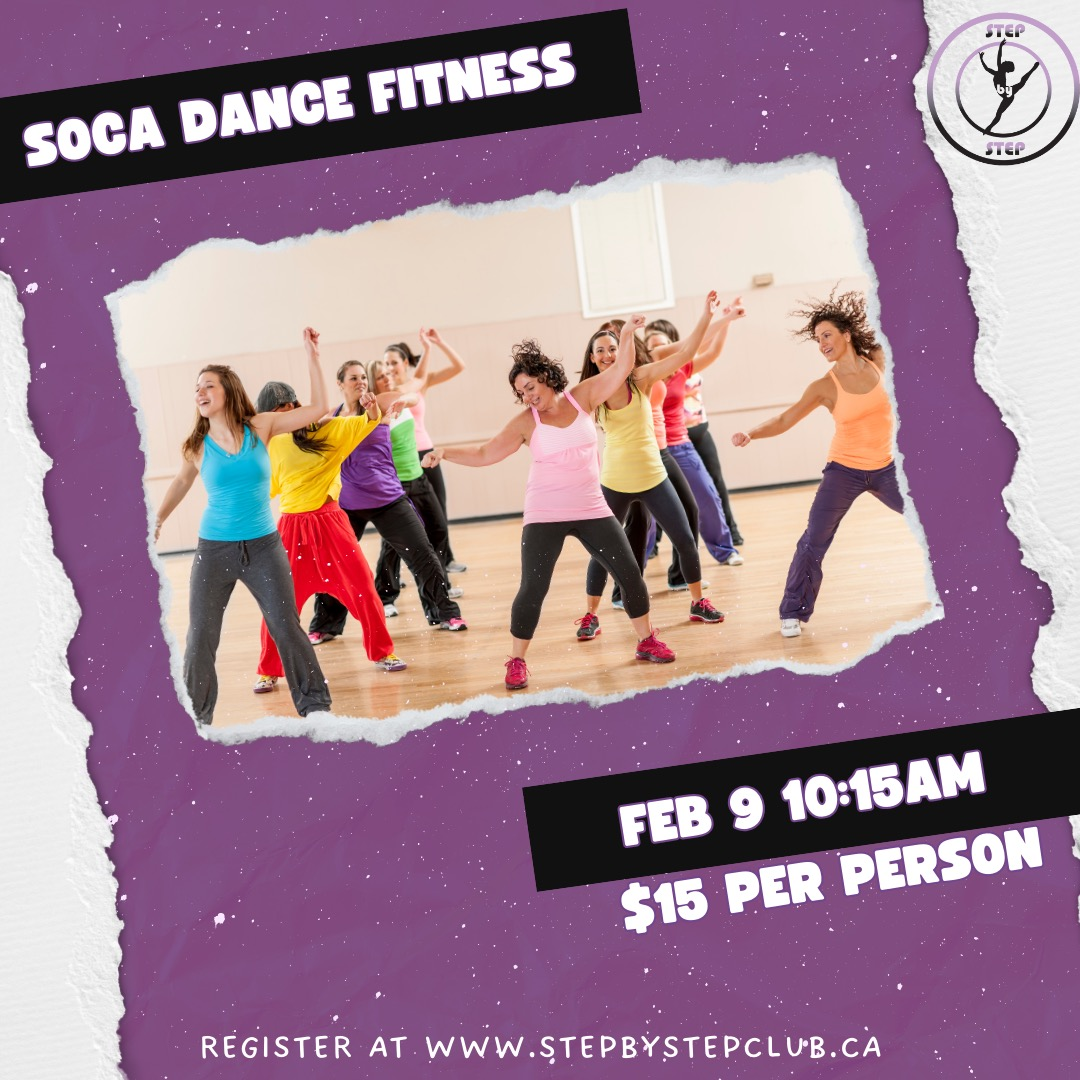
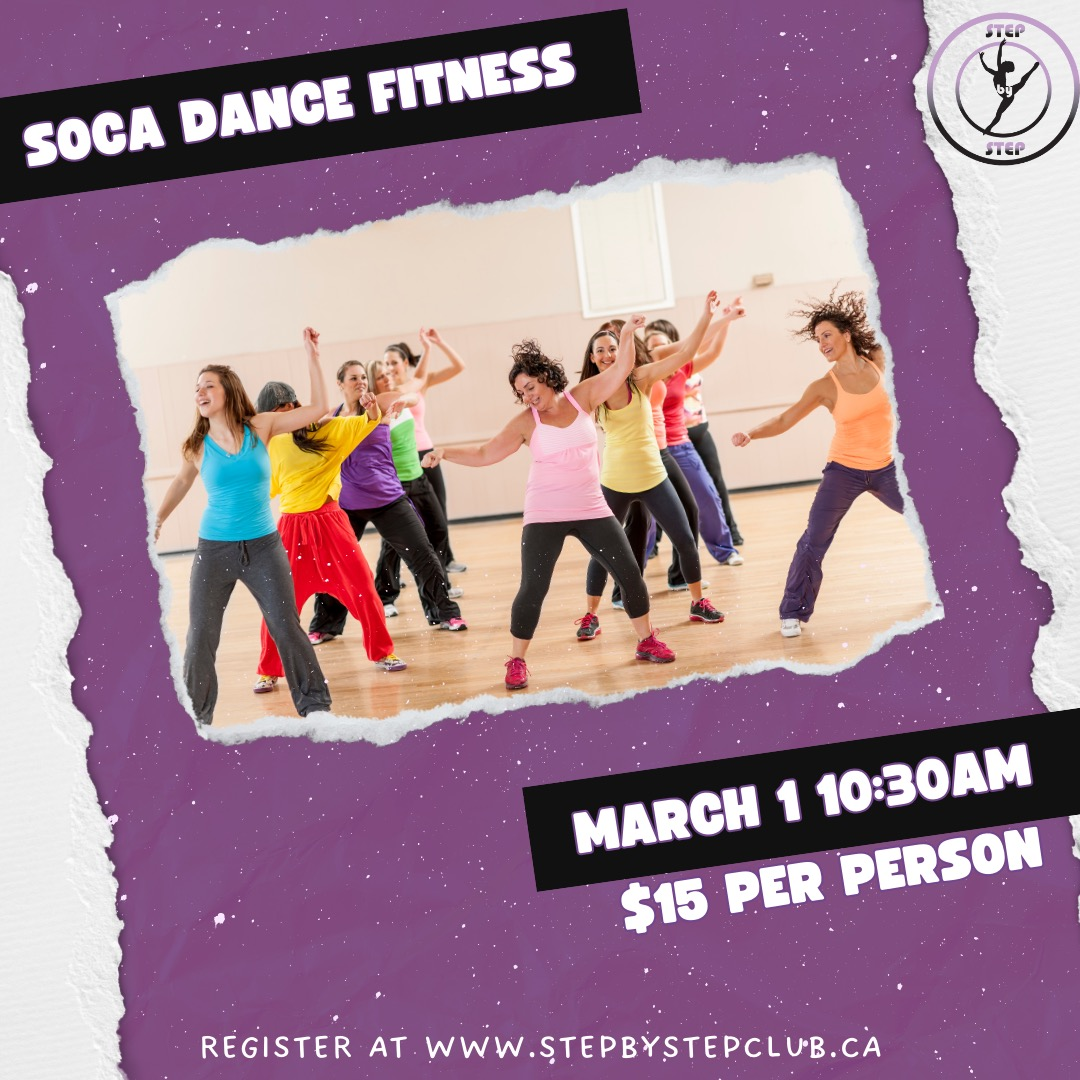
update special events image and link

Changed region(s): [[0.5194, 0.6722, 0.9778, 0.7944]]

diff --git a/client/src/components/SpecialEvents/SpecialEvents.js b/client/src/components/SpecialEvents/SpecialEvents.js
@@ -1,17 +1,10 @@
 import "./SpecialEvents.scss";
 import BackButton from "../BackButton/BackButton";
-import specialEvent2 from "../../assets/images/soca.jpeg";
-import specialEvent3 from "../../assets/images/blackhistory.JPG";
-import specialEvents from "../../assets/images/popclass.JPEG";
+import specialEvents from "../../assets/images/soca.jpeg";
+import specialEvent2 from "../../assets/images/blackhistory.JPG";
 
 const SpecialEvents = () => {
   const linkToBuyTickets = () => {
-    window.open(
-      "https://www.wellnessliving.com/rs/event/step_by_step_club?k_class=764015&k_class_tab=66373",
-      "_blank"
-    );
-  };
-  const linkToBuyTickets3 = () => {
     window.open(
       "https://www.wellnessliving.com/rs/event/step_by_step_club?k_class=763527&k_class_tab=66373",
       "_blank"
@@ -20,7 +13,7 @@ const SpecialEvents = () => {
 
   const linkToBuyTickets2 = () => {
     window.open(
-      "https://www.wellnessliving.com/rs/event/step_by_step_club?k_class=765922&k_class_tab=66373",
+      "https://www.wellnessliving.com/rs/event/step_by_step_club?k_class=764015&k_class_tab=66373",
       "_blank"
     );
   };
@@ -44,16 +37,6 @@ const SpecialEvents = () => {
           className="special-events__image"
         />
         <button className="special-events__button" onClick={linkToBuyTickets}>
-          Click Here To Buy Tickets!
-        </button>
-      </div>
-      <div className="special-events__image-container">
-        <img
-          src={specialEvent3}
-          alt="Special Event"
-          className="special-events__image"
-        />
-        <button className="special-events__button" onClick={linkToBuyTickets3}>
           Click Here To Buy Tickets!
         </button>
       </div>
